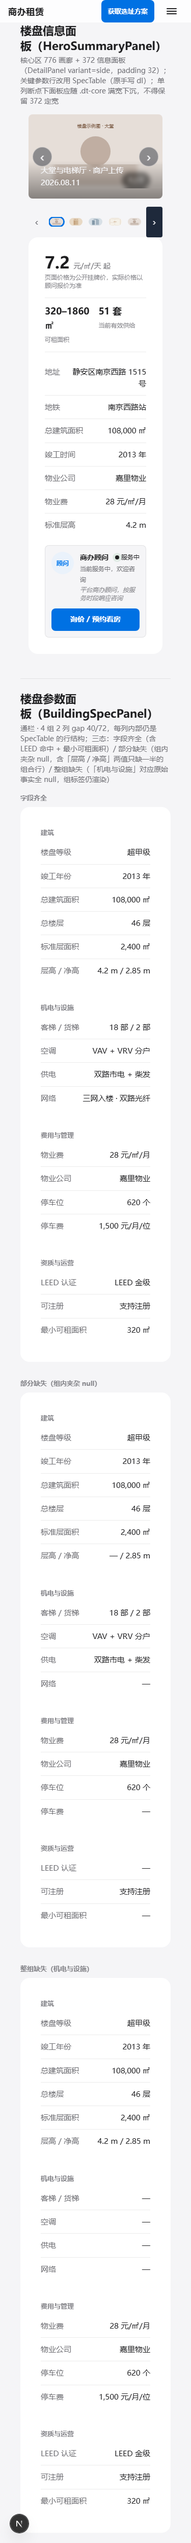
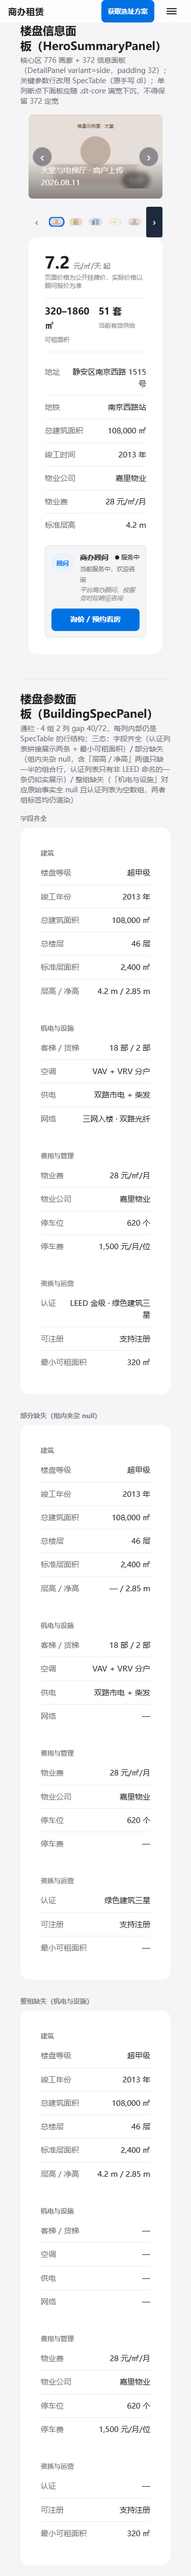
fix(frontend): OPT-037 楼盘参数「认证」行改为展示实际持有认证，不按名称匹配（Task 6 审查修正）
Review 发现 findLeedCertification 按 /leed/i 正则匹配认证列表，找不到就
渲染 ———当楼盘持有认证但不叫"LEED"时，该行误导读者以为"没有认证"，
而组件手里其实攥着认证数据只是没显示，与「越界空态不许说没有结果」
「规格表缺失显示 — 不隐藏行」同一类失效模式。

改为直接展示这栋楼实际持有的全部公开有效认证（isCertificationPublicAt/
publicVisible 过滤不变，只改展示层），多条用 " · " 拼接，标签由「LEED
认证」改为「认证」，真正没有认证时才渲染 —。

一并处理两个 Minor：报告第 2 层表头计数笔误 1→2 项；AdvisorCard 的
flex-wrap scoped 覆盖在两处代码注释补上"第三处即提升为 .advisor-card
默认行为"的阈值，避免第三份 scoped 覆盖悄悄堆积。

tests/building-spec-panel.test.ts 用 3 条「认证」用例替换原 2 条「LEED」
用例；dev-story 三态 fixture 同步调整；三断点重新截图自读确认。

diff --git a/payload-office-platform/tests/building-spec-panel.test.ts b/payload-office-platform/tests/building-spec-panel.test.ts
@@ -5,10 +5,15 @@ import type { AmenityGroupViewModel, FactGroupViewModel, FactValue } from '@/dom
 /**
  * `buildBuildingSpecGroups` 是楼盘参数面板（OPT-037 Task 6）的纯函数分组
  * 逻辑——按标签从 `building.factGroups` 查值、两个既有字段拼一行（层高/
- * 净高、客梯/货梯）、从 `amenityGroups` 派生 LEED、拼「竣工年份」。
- * 断点截图只能验证渲染结果，这里补上真正的分支覆盖：值存在 / 缺失渲染
- * null（不隐藏行）/ 组合行两值都在·只缺一半·都缺三种情形 / LEED 命中与
- * 找不到 / 竣工时间年份提取。
+ * 净高、客梯/货梯）、从 `amenityGroups` 展示实际持有的认证列表、拼
+ * 「竣工年份」。断点截图只能验证渲染结果，这里补上真正的分支覆盖：值
+ * 存在 / 缺失渲染 null（不隐藏行）/ 组合行两值都在·只缺一半·都缺三种
+ * 情形 / 认证列表单条·多条拼接·真正为空 / 竣工时间年份提取。
+ *
+ * 认证行 review 修正（见 BuildingSpecPanel.tsx 文件头注释）：不按名称
+ * 匹配特定认证体系（如"LEED"），直接展示持有的全部公开认证——这里的用例
+ * 特意包含"没有一条叫 LEED，但仍应正常展示"这一支，防止后来者把「按名称
+ * 匹配」的写法当成"更贴合 comp"又加回来。
  */
 
 function fact(label: string, value: string | null, estimated = false): FactValue {
@@ -50,18 +55,24 @@ const BASE_FACT_GROUPS: readonly FactGroupViewModel[] = [
   },
 ]
 
-const AMENITY_GROUPS_WITH_LEED: readonly AmenityGroupViewModel[] = [
+const AMENITY_GROUPS_MULTI_CERT: readonly AmenityGroupViewModel[] = [
   { id: 'certifications', title: '认证', items: ['LEED 金级', '绿色建筑三星'] },
 ]
 
-const AMENITY_GROUPS_NO_LEED: readonly AmenityGroupViewModel[] = [
+// 持有认证，但没有一条叫"LEED"——这是 review 修正要保护的核心情形：
+// 不因为字符串不匹配就把该行渲染成 —。
+const AMENITY_GROUPS_NON_LEED_CERT: readonly AmenityGroupViewModel[] = [
   { id: 'certifications', title: '认证', items: ['绿色建筑三星'] },
+]
+
+const AMENITY_GROUPS_NO_CERT: readonly AmenityGroupViewModel[] = [
+  { id: 'certifications', title: '认证', items: [] },
 ]
 
 describe('buildBuildingSpecGroups', () => {
   it('值存在时原样传给对应行', () => {
     const groups = buildBuildingSpecGroups(
-      { factGroups: BASE_FACT_GROUPS, amenityGroups: AMENITY_GROUPS_WITH_LEED },
+      { factGroups: BASE_FACT_GROUPS, amenityGroups: AMENITY_GROUPS_MULTI_CERT },
       320,
     )
     const structureGroup = groups.find((g) => g.id === 'structure')
@@ -71,7 +82,7 @@ describe('buildBuildingSpecGroups', () => {
 
   it('factGroups 里查不到值时，行的 value 为 null（交给 SpecTable 渲染 —），不隐藏该行', () => {
     const groups = buildBuildingSpecGroups(
-      { factGroups: BASE_FACT_GROUPS, amenityGroups: AMENITY_GROUPS_WITH_LEED },
+      { factGroups: BASE_FACT_GROUPS, amenityGroups: AMENITY_GROUPS_MULTI_CERT },
       null,
     )
     const mepGroup = groups.find((g) => g.id === 'mep')
@@ -82,7 +93,7 @@ describe('buildBuildingSpecGroups', () => {
 
   it('竣工时间事实值（ISO 字符串）转成年份 + "年" 后缀', () => {
     const groups = buildBuildingSpecGroups(
-      { factGroups: BASE_FACT_GROUPS, amenityGroups: AMENITY_GROUPS_WITH_LEED },
+      { factGroups: BASE_FACT_GROUPS, amenityGroups: AMENITY_GROUPS_MULTI_CERT },
       null,
     )
     const structureGroup = groups.find((g) => g.id === 'structure')
@@ -100,7 +111,7 @@ describe('buildBuildingSpecGroups', () => {
             facts: [fact('客梯', '18 部'), fact('货梯', '2 部'), fact('停车位', '620 个'), fact('停车费', null)],
           },
         ],
-        amenityGroups: AMENITY_GROUPS_WITH_LEED,
+        amenityGroups: AMENITY_GROUPS_MULTI_CERT,
       },
       null,
     )
@@ -110,7 +121,7 @@ describe('buildBuildingSpecGroups', () => {
 
   it('组合行：只缺一半 → 缺的一半渲染 —，不是整行消失', () => {
     const groups = buildBuildingSpecGroups(
-      { factGroups: BASE_FACT_GROUPS, amenityGroups: AMENITY_GROUPS_WITH_LEED },
+      { factGroups: BASE_FACT_GROUPS, amenityGroups: AMENITY_GROUPS_MULTI_CERT },
       null,
     )
     const structureGroup = groups.find((g) => g.id === 'structure')
@@ -128,38 +139,47 @@ describe('buildBuildingSpecGroups', () => {
       },
     ]
     const groups = buildBuildingSpecGroups(
-      { factGroups: factGroupsBothMissing, amenityGroups: AMENITY_GROUPS_WITH_LEED },
+      { factGroups: factGroupsBothMissing, amenityGroups: AMENITY_GROUPS_MULTI_CERT },
       null,
     )
     const mepGroup = groups.find((g) => g.id === 'mep')
     expect(mepGroup?.rows.find((r) => r.label === '客梯 / 货梯')?.value).toBeNull()
   })
 
-  it('LEED 命中：认证列表里有一条含 "LEED" 的名称，原样展示', () => {
+  it('认证：多条持有认证按 " · " 拼成一行展示，不挑一条丢其余的', () => {
     const groups = buildBuildingSpecGroups(
-      { factGroups: BASE_FACT_GROUPS, amenityGroups: AMENITY_GROUPS_WITH_LEED },
+      { factGroups: BASE_FACT_GROUPS, amenityGroups: AMENITY_GROUPS_MULTI_CERT },
       null,
     )
     const qualificationGroup = groups.find((g) => g.id === 'qualification')
-    expect(qualificationGroup?.rows.find((r) => r.label === 'LEED 认证')?.value).toBe('LEED 金级')
+    expect(qualificationGroup?.rows.find((r) => r.label === '认证')?.value).toBe('LEED 金级 · 绿色建筑三星')
   })
 
-  it('LEED 未命中：认证列表里没有含 "LEED" 的名称，渲染 —（不编造）', () => {
+  it('认证：持有认证但没有一条叫 "LEED"，仍原样展示（不因名称不匹配而渲染 —）', () => {
     const groups = buildBuildingSpecGroups(
-      { factGroups: BASE_FACT_GROUPS, amenityGroups: AMENITY_GROUPS_NO_LEED },
+      { factGroups: BASE_FACT_GROUPS, amenityGroups: AMENITY_GROUPS_NON_LEED_CERT },
       null,
     )
     const qualificationGroup = groups.find((g) => g.id === 'qualification')
-    expect(qualificationGroup?.rows.find((r) => r.label === 'LEED 认证')?.value).toBeNull()
+    expect(qualificationGroup?.rows.find((r) => r.label === '认证')?.value).toBe('绿色建筑三星')
+  })
+
+  it('认证：真正没有任何认证（空数组）时渲染 —', () => {
+    const groups = buildBuildingSpecGroups(
+      { factGroups: BASE_FACT_GROUPS, amenityGroups: AMENITY_GROUPS_NO_CERT },
+      null,
+    )
+    const qualificationGroup = groups.find((g) => g.id === 'qualification')
+    expect(qualificationGroup?.rows.find((r) => r.label === '认证')?.value).toBeNull()
   })
 
   it('最小可租面积：调用方传入数值时拼 "㎡" 后缀，传 null 时渲染 —', () => {
     const withArea = buildBuildingSpecGroups(
-      { factGroups: BASE_FACT_GROUPS, amenityGroups: AMENITY_GROUPS_WITH_LEED },
+      { factGroups: BASE_FACT_GROUPS, amenityGroups: AMENITY_GROUPS_MULTI_CERT },
       320,
     )
     const withoutArea = buildBuildingSpecGroups(
-      { factGroups: BASE_FACT_GROUPS, amenityGroups: AMENITY_GROUPS_WITH_LEED },
+      { factGroups: BASE_FACT_GROUPS, amenityGroups: AMENITY_GROUPS_MULTI_CERT },
       null,
     )
     const qualGroupWithArea = withArea.find((g) => g.id === 'qualification')
@@ -183,7 +203,7 @@ describe('buildBuildingSpecGroups', () => {
       },
     ]
     const groups = buildBuildingSpecGroups(
-      { factGroups: factGroupsMepAllMissing, amenityGroups: AMENITY_GROUPS_WITH_LEED },
+      { factGroups: factGroupsMepAllMissing, amenityGroups: AMENITY_GROUPS_MULTI_CERT },
       null,
     )
     const mepGroup = groups.find((g) => g.id === 'mep')

diff --git a/payload-office-platform/src/components/frontend/detail/BuildingSpecPanel.tsx b/payload-office-platform/src/components/frontend/detail/BuildingSpecPanel.tsx
@@ -19,11 +19,11 @@ import type { AmenityGroupViewModel, FactGroupViewModel } from '@/domain/public-
  *     货梯——comp 原稿就是这么画的合并行，两个字段都是普通数字+单位，
  *     不是"押二付三"那种需要语义拼接的复合值，拼接风险与 Task 3 的
  *     押金/付款方式不是一回事）。
- *   - 「可推导，非编造」：LEED 来自 `amenityGroups` 的「认证」组（已在手，
- *     无需新映射）里按名称找含"LEED"的一项；「最小可租面积」来自调用方
- *     传入的 `minLeasableArea`（取自 `BuildingSupplySnapshot` 的
- *     `aggregateAreaRange`，与 `HeroSummaryPanel` 「可租面积」统计同一
- *     来源，不是另算一份）。
+ *   - 「可推导，非编造」：「最小可租面积」来自调用方传入的 `minLeasableArea`
+ *     （取自 `BuildingSupplySnapshot` 的 `aggregateAreaRange`，与
+ *     `HeroSummaryPanel` 「可租面积」统计同一来源，不是另算一份；无有效
+ *     供给时 `aggregateAreaRange` 返回 `null`，不是 `0` 也不是 `Infinity`，
+ *     该行照实渲染 —）。
  *   - 「域层没有，省略」：电梯速度、楼板承重、车位配比（与 Task 3 「需要
  *     额外计算的楼宇属性」同一结论，非重复踩坑）、空调加时费、出租率、
  *     主要租户行业——`Buildings` collection 逐项确认无对应字段。
@@ -36,6 +36,27 @@ import type { AmenityGroupViewModel, FactGroupViewModel } from '@/domain/public-
  *     `minimumLeaseMonths`（只有 `ListingDetailViewModel.factGroups` 单套
  *     详情才有）——要在楼盘级聚合它需要新增跨房源的聚合管道，超出「一次
  *     低成本映射」的范围，与「车位配比」同一类省略理由，不是漏查。
+ *
+ * 「认证」行——review 修正（2026-08-21）：comp 字面是「LEED 认证 → 金级」，
+ * 假设域层有一个结构化的认证体系字段（如 `certificationScheme: 'LEED' |
+ * 'WELL' | ...` + `certificationGrade`）。但 `Buildings.certifications` 是
+ * 自由文本数组（仅 `name`/`certificateNumber`/有效期/`publicVisible`），没有
+ * 体系分类字段。首版实现按名称正则找一条含"LEED"的项——这个写法本身是
+ * 「域层没有就换一种方式硬凑」的静默误导：当楼盘持有认证但都不叫"LEED"
+ * （如"绿色建筑三星""WELL 铂金级"），该行会渲染 —，读起来像"这栋楼没有
+ * 认证"，而组件手里其实攥着认证数据只是没显示——与本项目反复重申的「越界
+ * 空态不许说没有结果」「规格表缺失显示 — 不隐藏行，因为隐藏=暗示不存在」
+ * 是同一类问题，只是换了张脸。
+ * 修正：不做特定认证名称的字符串匹配，直接展示这栋楼实际持有的公开在
+ * 有效期内的认证列表（`isCertificationPublicAt` / `publicVisible` 过滤已在
+ * `mapBuildingAmenityGroups` 做过，这里不重复判断，只做展示层的拼接）。
+ * 多条认证用" · "拼成一行（站内既有的列表转字符串约定，见
+ * `BuildingDetailLayout.tsx` `parts.join(' · ')`、`ListingCard.tsx`
+ * `locationParts.join(' · ')`），不设条数上限——`.dt-spec__value` 本就允许
+ * 换行（地址行已验证过长值换行不破版），认证条目现实中通常 1–3 条，没有
+ * 才渲染 —，此时 — 才真正意味着"这栋楼没有可公开的认证"。
+ * 这是刻意偏离 comp 字面的「LEED 认证」单项设计，Task 10 接线时不要
+ * "恢复"成按认证名称做字符串匹配的写法。
  */
 
 type BuildingSpecInput = Readonly<{
@@ -69,16 +90,14 @@ function completionYear(groups: readonly FactGroupViewModel[]): string | null {
 }
 
 /**
- * LEED 认证不是 Buildings 上的独立字段，而是「楼盘认证」自由文本数组里
- * 可能存在的一条（`mapBuildingAmenityGroups` 已产出、已过滤 publicVisible +
- * 有效期）。按名称找一条含"LEED"的认证——找到就如实展示认证原文（如
- * "LEED 金级"），找不到就是这栋楼确实没有可公开的 LEED 认证，渲染 —，
- * 不是「没查到就编一个」。
+ * 展示这栋楼实际持有的公开认证（已过滤 publicVisible + 有效期，见
+ * `mapBuildingAmenityGroups`），不按特定认证名称做字符串匹配——见文件头
+ * review 修正说明。没有认证时返回 null（渲染 —，此时确实是"没有"）。
  */
-function findLeedCertification(amenityGroups: readonly AmenityGroupViewModel[]): string | null {
+function publicCertificationsText(amenityGroups: readonly AmenityGroupViewModel[]): string | null {
   const certifications = amenityGroups.find((group) => group.id === 'certifications')
-  const match = certifications?.items.find((name) => /leed/i.test(name))
-  return match ?? null
+  const items = certifications?.items ?? []
+  return items.length > 0 ? items.join(' · ') : null
 }
 
 export function buildBuildingSpecGroups(
@@ -134,7 +153,9 @@ export function buildBuildingSpecGroups(
       id: 'qualification',
       title: '资质与运营',
       rows: [
-        { label: 'LEED 认证', value: findLeedCertification(building.amenityGroups) },
+        // 「认证」——不按名称匹配特定认证体系（如"LEED"），展示这栋楼实际
+        // 持有的全部公开有效认证，见文件头 review 修正说明。
+        { label: '认证', value: publicCertificationsText(building.amenityGroups) },
         // 「可注册」comp 字面标签，取自既有「注册能力」事实（REGISTRATION_
         // CAPABILITY_LABELS 已产出"支持注册/有条件支持/不支持注册"）。
         { label: '可注册', value: fact('注册能力') },

diff --git a/payload-office-platform/src/app/(frontend)/dev-story/opt037/page.tsx b/payload-office-platform/src/app/(frontend)/dev-story/opt037/page.tsx
@@ -542,11 +542,13 @@ const HERO_SUPPLY_FULL: BuildingSupplySnapshot = {
   validationErrors: [],
 }
 
-// 字段齐全：BuildingSpecPanel 4 组全部字段都有值 + LEED 命中 + 最小可租面积可算。
+// 字段齐全：BuildingSpecPanel 4 组全部字段都有值 + 认证列表命中两条（拼接展示，非按名称匹配）+ 最小可租面积可算。
 const BUILDING_SPEC_FULL_AMENITIES = HERO_BUILDING_AMENITY_GROUPS
 
 // 部分缺失：组内夹杂 null（标准层高缺失 → 「层高 / 净高」显示「— / 2.85 m」；
-// 网络、停车费缺失），且认证列表里没有 LEED（验证「找不到就是没有」而非编造）。
+// 网络、停车费缺失），认证列表只有「绿色建筑三星」（不含"LEED"字样）——验证
+// review 修正后的行为：不做名称匹配，原样展示持有的认证，不因为不叫"LEED"
+// 就渲染 —（这正是本次修正要杜绝的静默误导）。
 const BUILDING_SPEC_PARTIAL_GROUPS: readonly FactGroupViewModel[] = [
   HERO_BUILDING_FACT_GROUPS[0],
   {
@@ -592,7 +594,9 @@ const BUILDING_SPEC_PARTIAL_AMENITIES = [
 ] as const
 
 // 整组缺失：「机电与设施」对应的原始事实（客梯/货梯/空调/供电/网络）全部为
-// null，其余三组正常——验证该组仍渲染组标签 + 全 — 行，不整组隐藏。
+// null，其余三组正常——验证该组仍渲染组标签 + 全 — 行，不整组隐藏；认证列表
+// 换成真正的空数组（这栋楼确实没有公开认证），验证「认证」行此时渲染 — 且
+// 这个 — 是真的"没有"，不是"没匹配到某个名字"。
 const BUILDING_SPEC_GROUP_MISSING_GROUPS: readonly FactGroupViewModel[] = [
   HERO_BUILDING_FACT_GROUPS[0],
   HERO_BUILDING_FACT_GROUPS[1],
@@ -620,7 +624,12 @@ const BUILDING_SPEC_GROUP_MISSING_GROUPS: readonly FactGroupViewModel[] = [
     ],
   },
 ]
-const BUILDING_SPEC_GROUP_MISSING_AMENITIES = HERO_BUILDING_AMENITY_GROUPS
+const BUILDING_SPEC_GROUP_MISSING_AMENITIES = [
+  { id: 'amenities', title: '配套', items: ['双首层大堂', '24 小时空调可申请'] },
+  // 真正没有认证（空数组），与「有认证但不叫 LEED」是两种不同状态，
+  // 分别由「整组缺失」态与「部分缺失」态覆盖。
+  { id: 'certifications', title: '认证', items: [] },
+] as const
 
 export default function Opt037PreviewPage() {
   // 生产环境直接 404，保证该路由只在开发环境可见
@@ -908,7 +917,7 @@ export default function Opt037PreviewPage() {
         <PreviewSection
           id="building-spec-panel"
           title="楼盘参数面板（BuildingSpecPanel）"
-          note="通栏 · 4 组 2 列 gap 40/72，每列内部仍是 SpecTable 的行结构；三态：字段齐全（含 LEED 命中 + 最小可租面积）/ 部分缺失（组内夹杂 null，含「层高 / 净高」两值只缺一半的组合行）/ 整组缺失（「机电与设施」对应原始事实全 null，组标签仍渲染）"
+          note="通栏 · 4 组 2 列 gap 40/72，每列内部仍是 SpecTable 的行结构；三态：字段齐全（认证列表拼接展示两条 + 最小可租面积）/ 部分缺失（组内夹杂 null，含「层高 / 净高」两值只缺一半的组合行，认证列表只有非 LEED 命名的一条仍如实展示）/ 整组缺失（「机电与设施」对应原始事实全 null 且认证列表为空数组，两者组标签均仍渲染）"
         >
           <div style={{ display: 'flex', flexDirection: 'column', gap: 32 }}>
             <div style={{ display: 'flex', flexDirection: 'column', gap: 8 }}>

diff --git a/payload-office-platform/src/app/(frontend)/styles/detail.css b/payload-office-platform/src/app/(frontend)/styles/detail.css
@@ -677,7 +677,12 @@
  * 在 .dt-core 单列断点下收窄到与该注释同一量级的宽度，照抄同一个已验证
  * 修法，不重新发明一套。不去掉 AdvisorCard 自身的卡片底色/边框——信息
  * 面板是零边框白底大面板，AdvisorCard 在其中保留一个小卡片轮廓是合理的
- * 嵌套层次，与 detail-side-rail 需要去嵌套的场景不同。 */
+ * 嵌套层次，与 detail-side-rail 需要去嵌套的场景不同。
+ *
+ * 升级阈值：这是第二处 scoped 的 flex-wrap:wrap 覆盖（第一处见
+ * styles.css `.detail-side-rail .advisor-card`）。若再出现第三处窄栏场景，
+ * 不要再加第三份——把 flex-wrap:wrap 提升为 `.advisor-card` 自身的默认
+ * 行为，两处 scoped 覆盖再收窄成只负责各自的差异化部分。 */
 .hero-summary .advisor-card {
   flex-wrap: wrap;
 }

diff --git a/payload-office-platform/src/app/(frontend)/styles.css b/payload-office-platform/src/app/(frontend)/styles.css
@@ -4906,7 +4906,12 @@ ol {
   color: var(--color-muted);
 }
 
-/* 窄栏里的顾问卡：去嵌套卡片外观，CTA 换行占满，避免正文被挤成竖排 */
+/* 窄栏里的顾问卡：去嵌套卡片外观，CTA 换行占满，避免正文被挤成竖排。
+ * 升级阈值：这是第二处需要 flex-wrap:wrap 的窄栏场景
+ * （第一处见 detail.css `.hero-summary .advisor-card`）。若再出现第三处，
+ * 不要再加第三份 scoped 覆盖——把 flex-wrap:wrap 提升为 `.advisor-card`
+ * 自身的默认行为，两处 scoped 覆盖再改回只负责各自的差异化部分
+ * （如这里额外去掉的卡片外观）。 */
 .detail-side-rail .advisor-card {
   flex-wrap: wrap;
   background: transparent;
